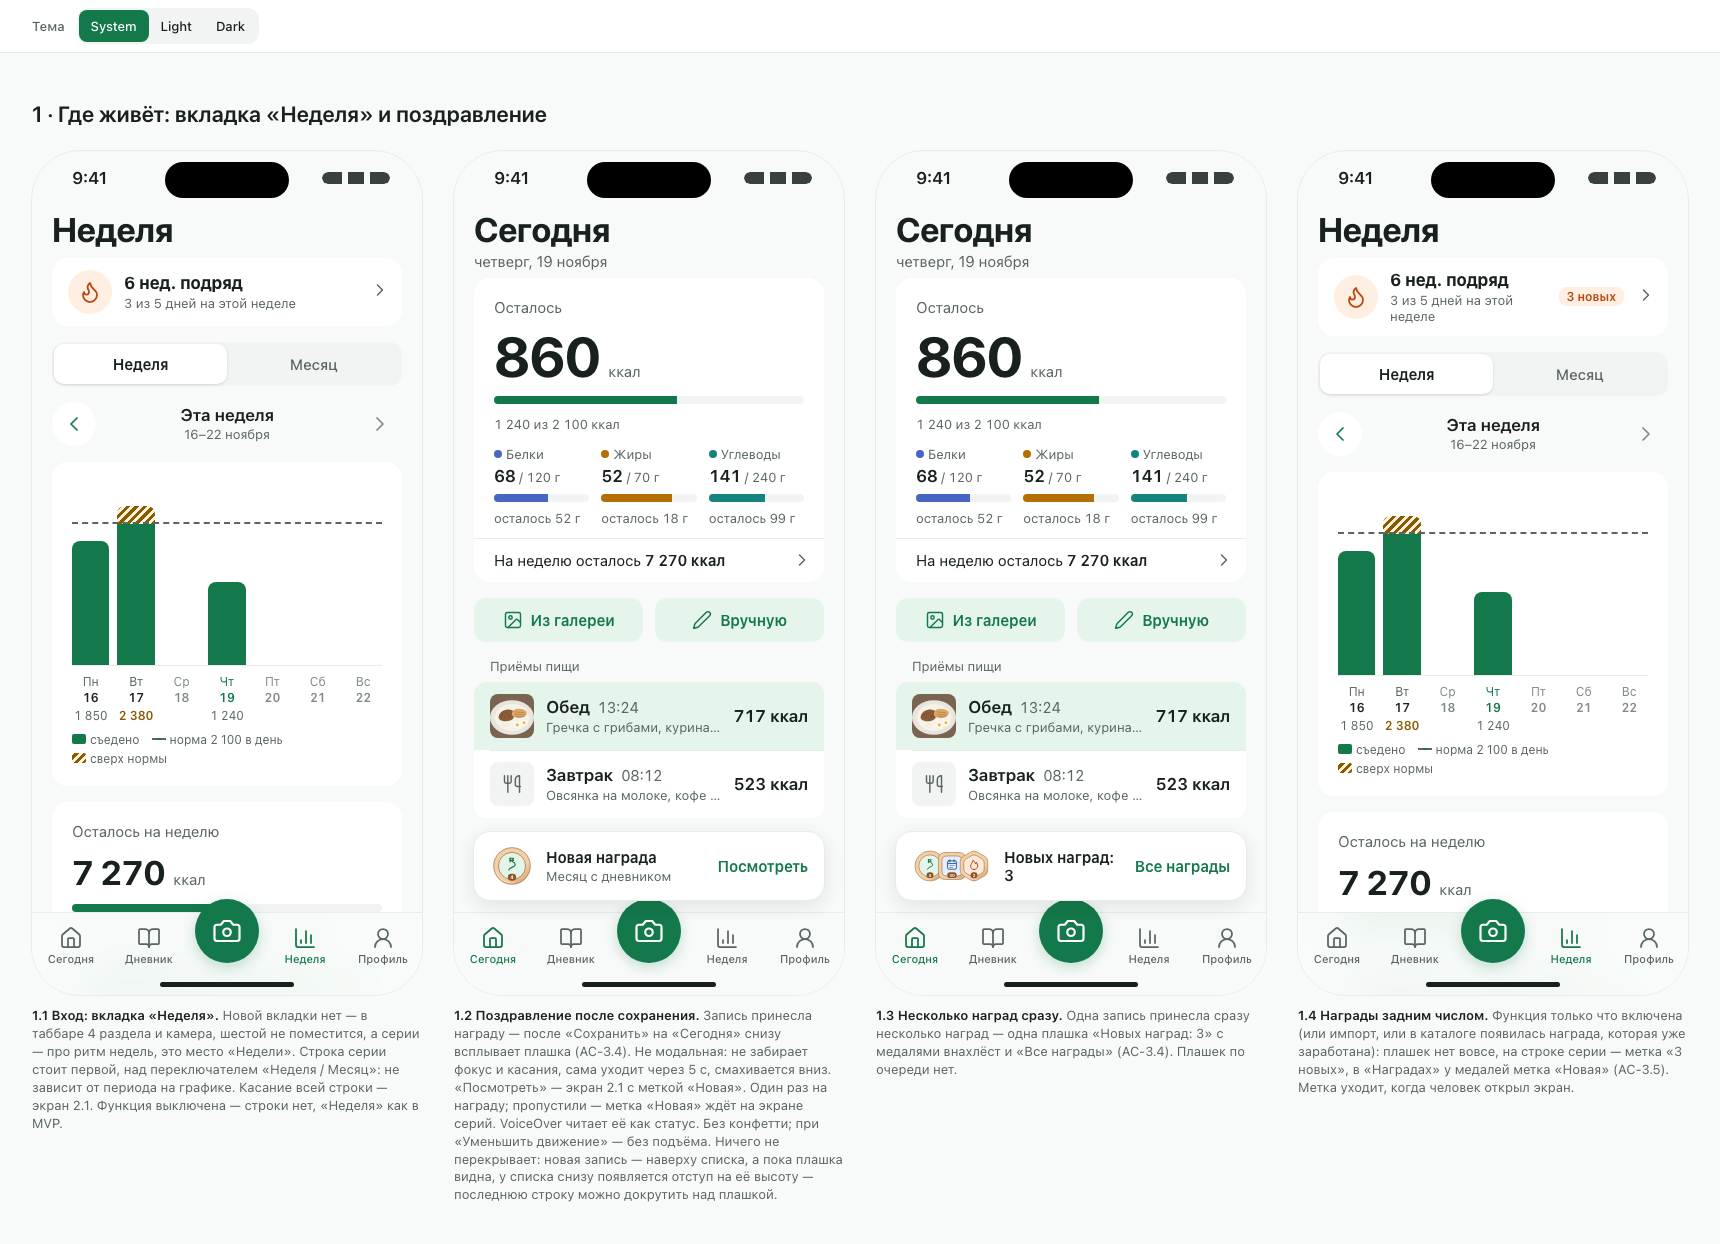
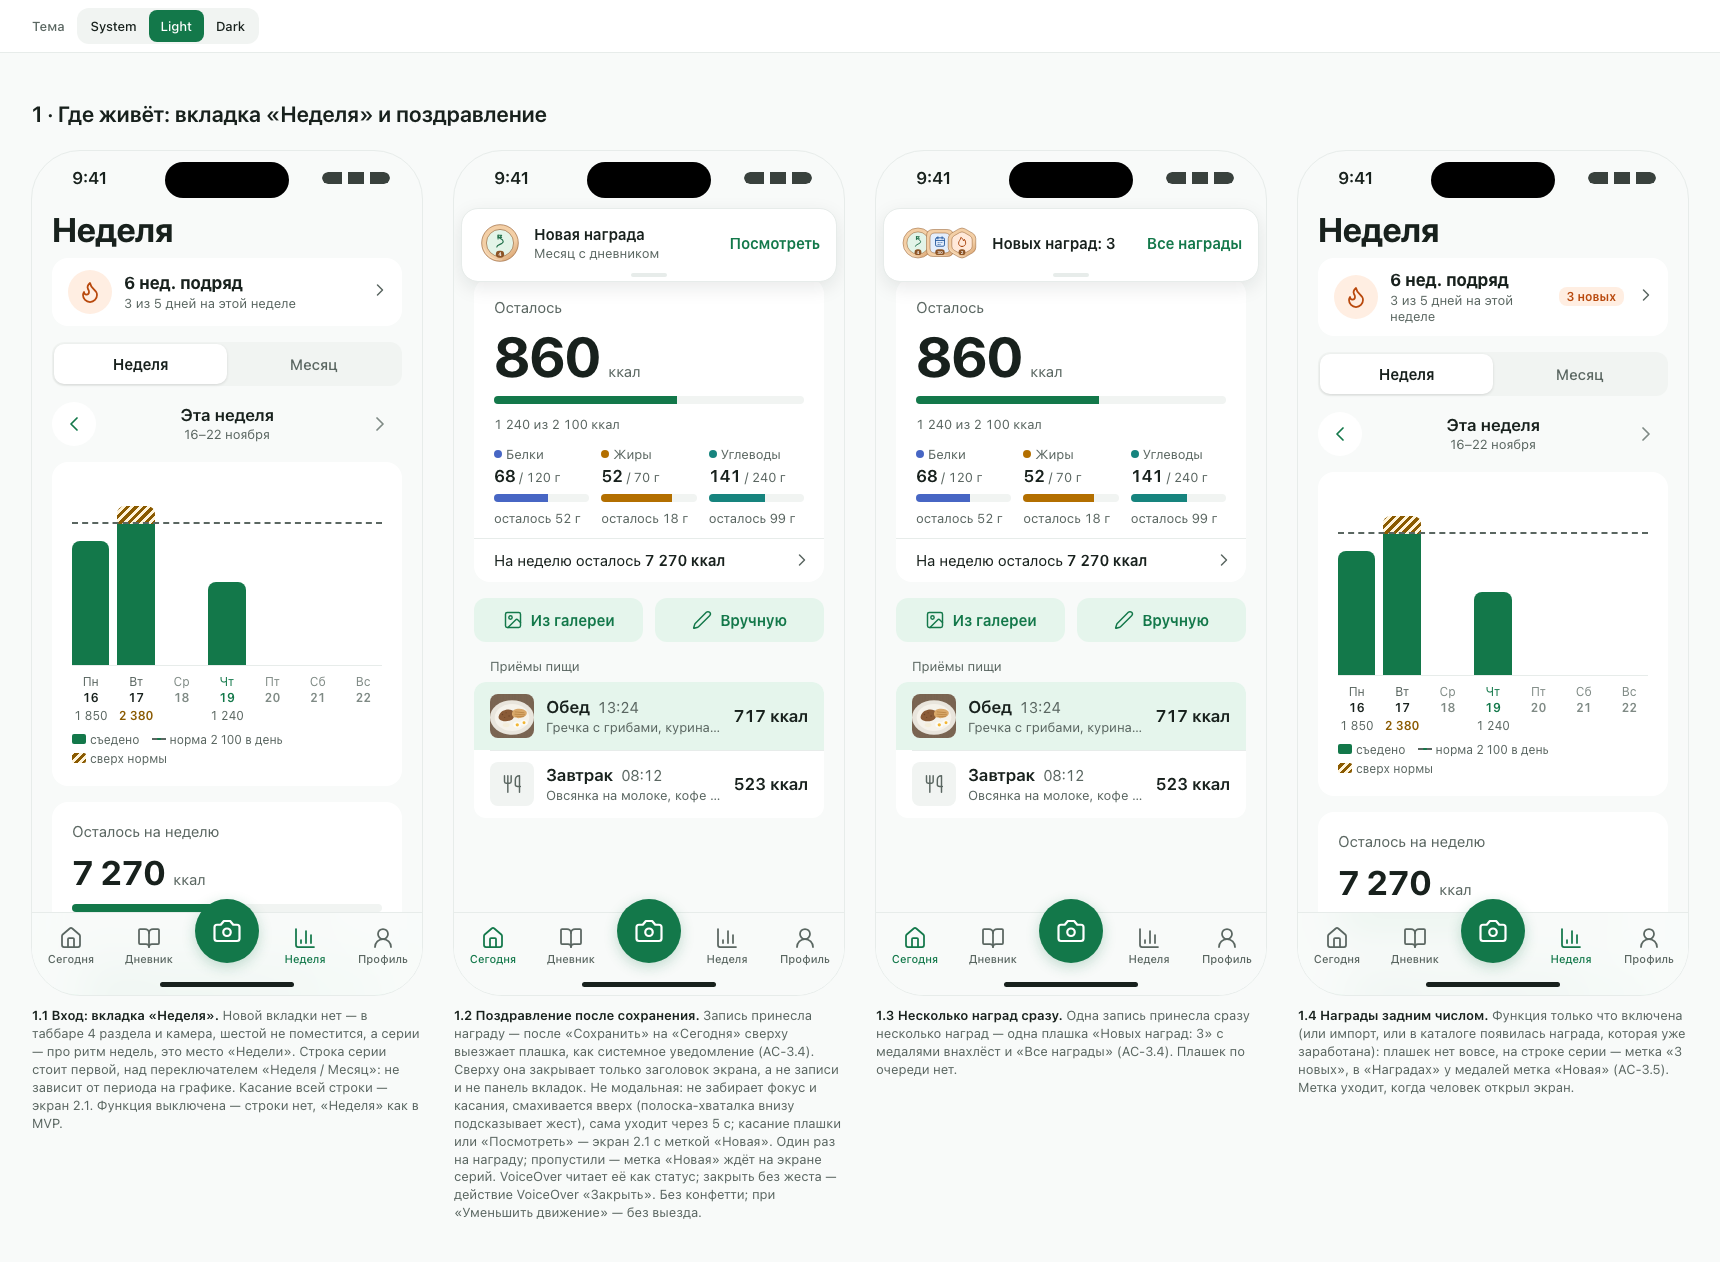
OCT-184 Award toast moves to the top as a swipe-up notification

diff --git a/docs/design/oct-184/prototype.html b/docs/design/oct-184/prototype.html
@@ -785,14 +785,16 @@ body{padding:var(--space-10) var(--space-8)}
 .st-entry .mini i.on{background:var(--color-accent)}
 .st-entry .chev{color:var(--color-text-secondary)}
 
-/* milestone toast: non-blocking, above the tab bar, 5 s, never takes focus */
-.mtoast{position:absolute;left:var(--screen-gutter);right:var(--screen-gutter);bottom:calc(34px + var(--tabbar-height) + var(--space-3));z-index:var(--z-toast);display:flex;align-items:center;gap:var(--space-3);padding:var(--space-3) var(--space-3) var(--space-3) var(--space-4);border-radius:var(--radius-lg);background:var(--color-surface);box-shadow:var(--shadow-toast);outline:1px solid var(--color-separator);animation:rise var(--duration-slow) var(--ease-out) both}
+/* award banner: top, like a system notification; swipe up to dismiss, 5 s, never takes focus */
+.mtoast{position:absolute;left:var(--space-2);right:var(--space-2);top:calc(54px + var(--space-1));z-index:var(--z-toast);display:flex;align-items:center;gap:var(--space-3);padding:var(--space-3) var(--space-3) var(--space-4) var(--space-4);border-radius:var(--radius-lg);background:var(--color-surface);box-shadow:var(--shadow-toast);outline:1px solid var(--color-separator);animation:drop var(--duration-slow) var(--ease-out) both}
+.mtoast::after{content:"";position:absolute;left:50%;bottom:var(--space-1);translate:-50% 0;width:36px;height:4px;border-radius:var(--radius-full);background:var(--color-separator)}
 .mtoast .node{width:var(--milestone-node-size);height:var(--milestone-node-size);border-radius:50%;display:grid;place-items:center;background:var(--color-accent);color:var(--color-on-accent);flex:none}
 .mtoast .main{flex:1;display:flex;flex-direction:column;gap:2px;font-size:var(--text-subhead-size)}
 .mtoast .main b{font-weight:600}
 .mtoast .main span{font-size:var(--text-footnote-size);color:var(--color-text-secondary)}
 .mtoast .act{color:var(--color-accent);font-weight:600;min-height:var(--tap-min);display:flex;align-items:center;padding:0 var(--space-1);white-space:nowrap;font-size:var(--text-subhead-size)}
 @keyframes rise{from{translate:0 16px;opacity:0}}
+@keyframes drop{from{translate:0 -16px;opacity:0}}
 @media (prefers-reduced-motion: reduce){.mtoast{animation:none}}
 
 /* rule sheet */
@@ -1457,7 +1459,7 @@ const RULES = `<div class="scrim"></div><div class="sheet" role="dialog" aria-la
 /* ---------- 1 · entry ---------- */
 document.getElementById('entry-row').innerHTML = [
   frame('1.1','Вход: вкладка «Неделя»','Новой вкладки нет — в таббаре 4 раздела и камера, шестой не поместится, а серии — про ритм недель, это место «Недели». Строка серии стоит первой, над переключателем «Неделя / Месяц»: не зависит от периода на графике. Касание всей строки — экран 2.1. Функция выключена — строки нет, «Неделя» как в MVP.', weekWithStreak()),
-  frame('1.2','Поздравление после сохранения','Запись принесла награду — после «Сохранить» на «Сегодня» снизу всплывает плашка (AC-3.4). Не модальная: не забирает фокус и касания, сама уходит через 5 с, смахивается вниз. «Посмотреть» — экран 2.1 с меткой «Новая». Один раз на награду; пропустили — метка «Новая» ждёт на экране серий. VoiceOver читает её как статус. Без конфетти; при «Уменьшить движение» — без подъёма. Ничего не перекрывает: новая запись — наверху списка, а пока плашка видна, у списка снизу появляется отступ на её высоту — последнюю строку можно докрутить над плашкой.', savedToday()),
+  frame('1.2','Поздравление после сохранения','Запись принесла награду — после «Сохранить» на «Сегодня» сверху выезжает плашка, как системное уведомление (AC-3.4). Сверху она закрывает только заголовок экрана, а не записи и не панель вкладок. Не модальная: не забирает фокус и касания, смахивается вверх (полоска-хваталка внизу подсказывает жест), сама уходит через 5 с; касание плашки или «Посмотреть» — экран 2.1 с меткой «Новая». Один раз на награду; пропустили — метка «Новая» ждёт на экране серий. VoiceOver читает её как статус; закрыть без жеста — действие VoiceOver «Закрыть». Без конфетти; при «Уменьшить движение» — без выезда.', savedToday()),
   frame('1.3','Несколько наград сразу','Одна запись принесла сразу несколько наград — одна плашка «Новых наград: 3» с медалями внахлёст и «Все награды» (AC-3.4). Плашек по очереди нет.', savedMany()),
   frame('1.4','Награды задним числом','Функция только что включена (или импорт, или в каталоге появилась награда, которая уже заработана): плашек нет вовсе, на строке серии — метка «3 новых», в «Наградах» у медалей метка «Новая» (AC-3.5). Метка уходит, когда человек открыл экран.', weekWithStreak({fresh:3})),
 ].join('');
